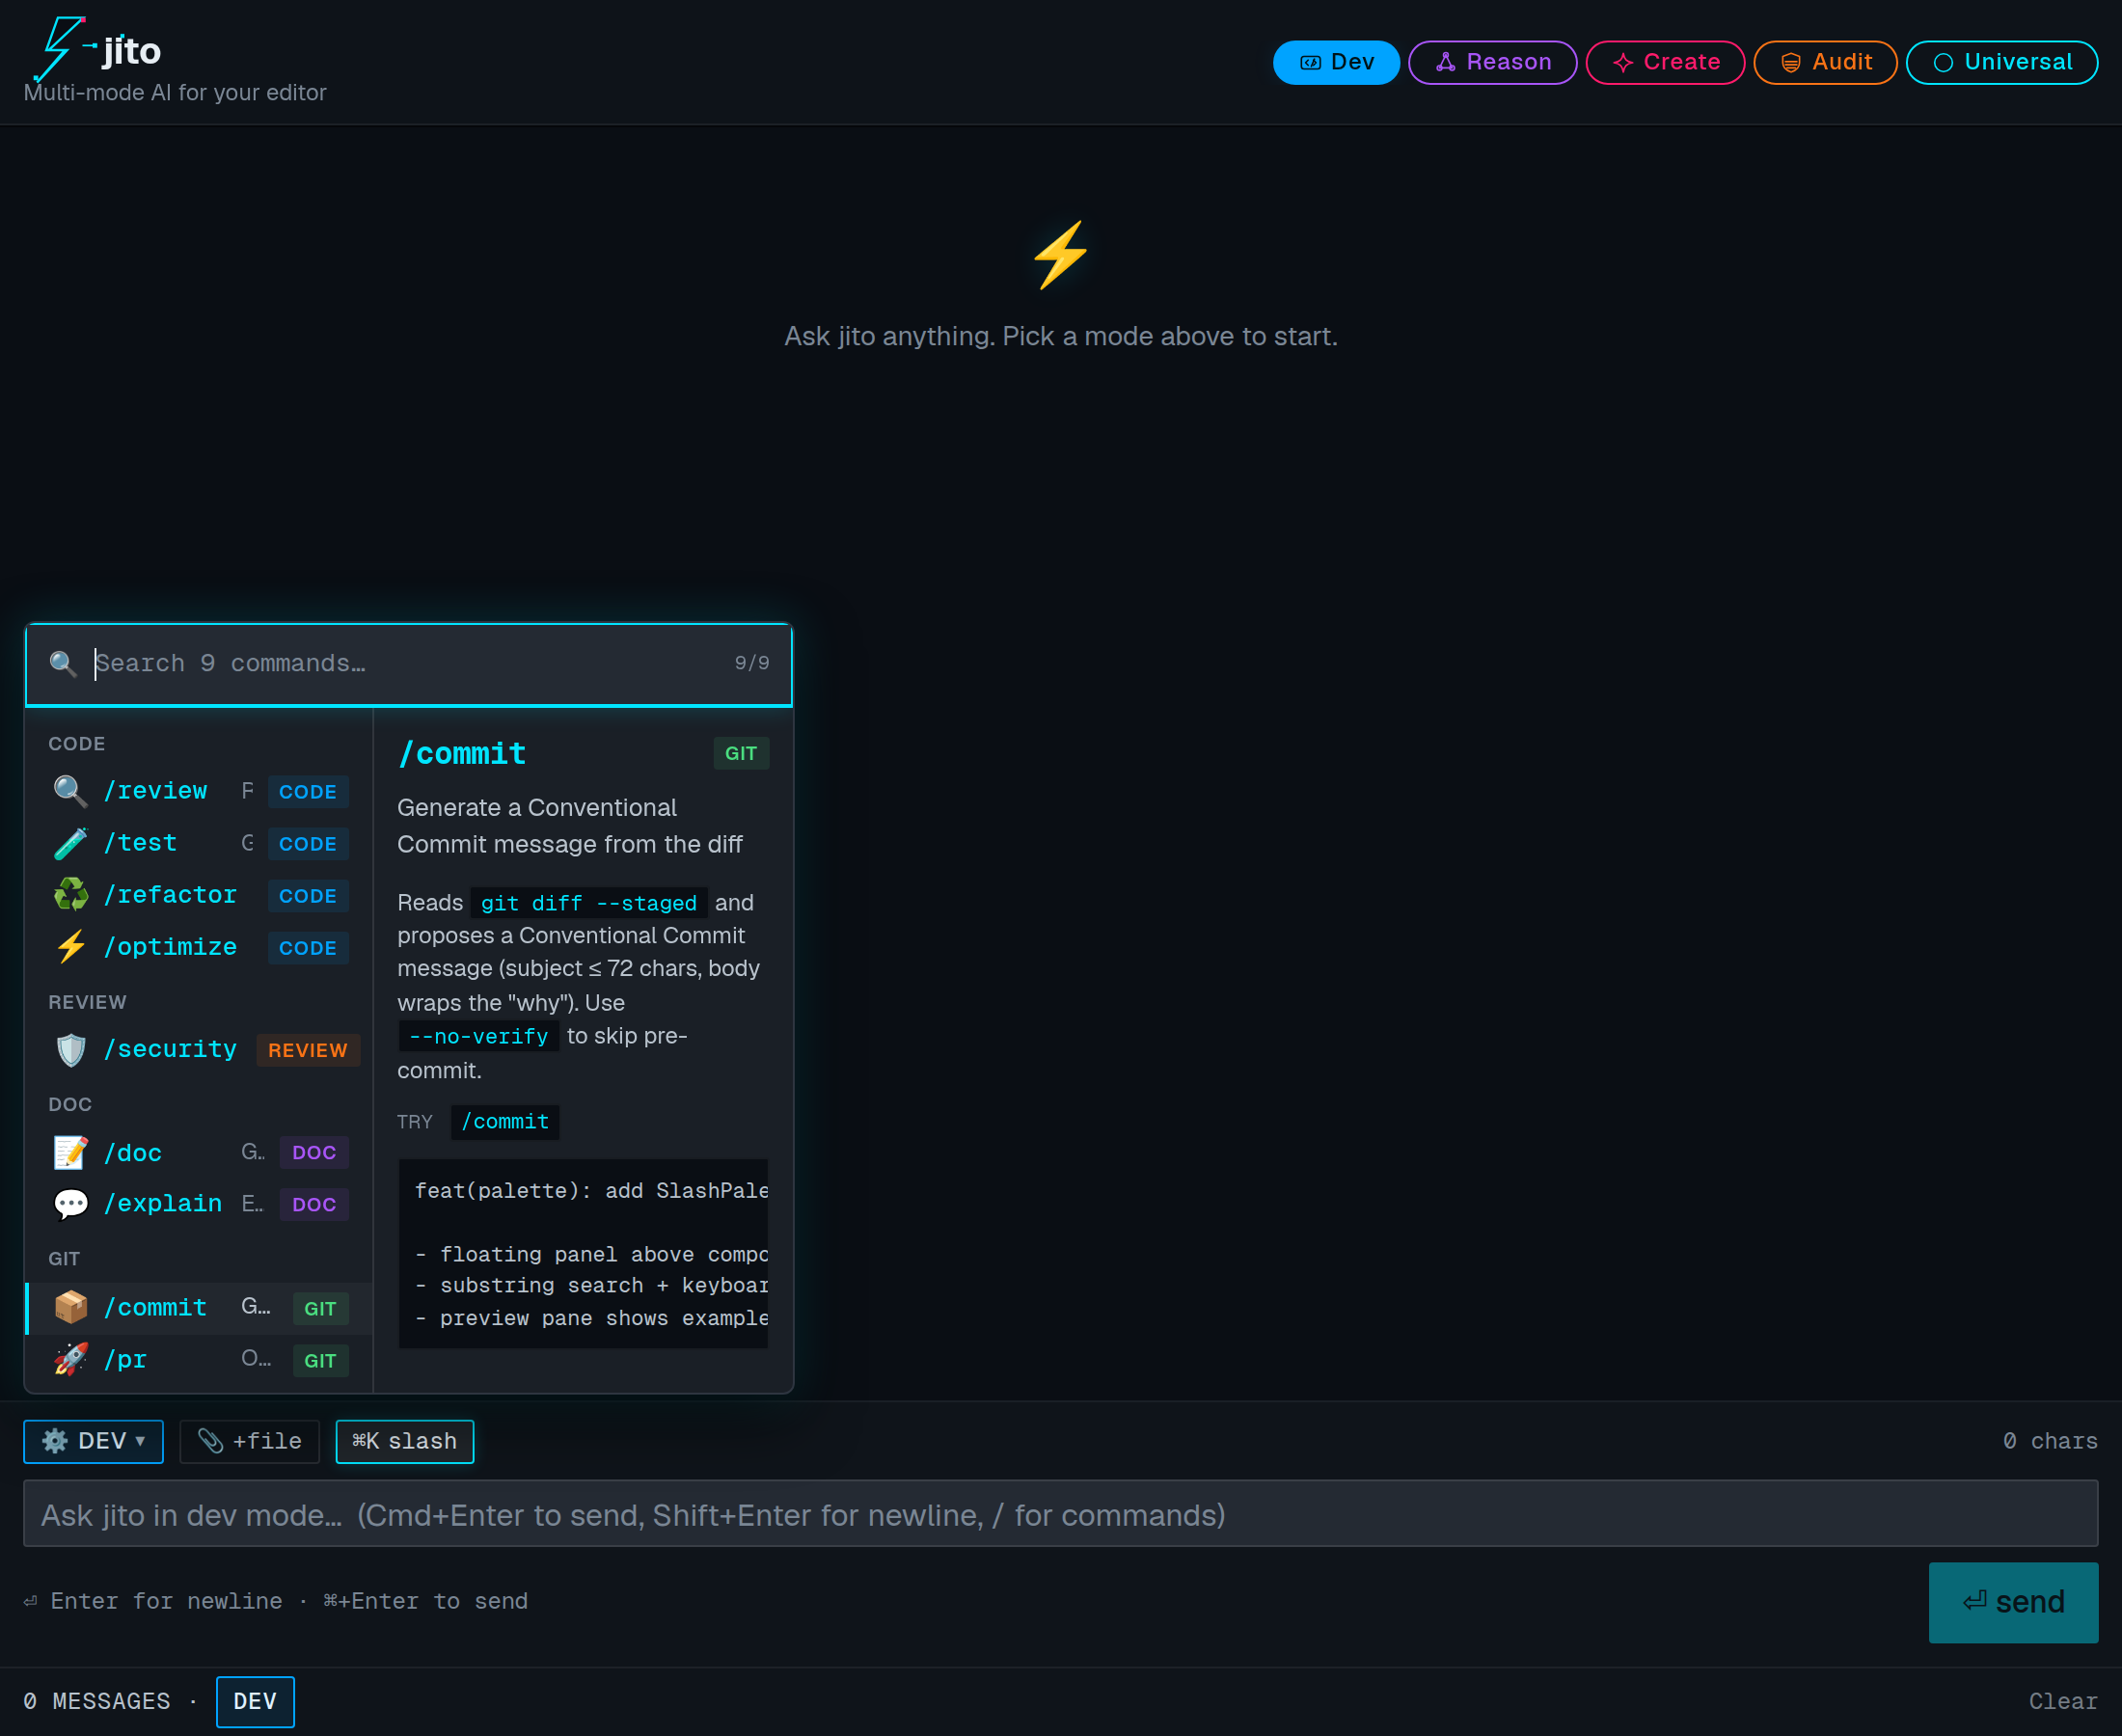
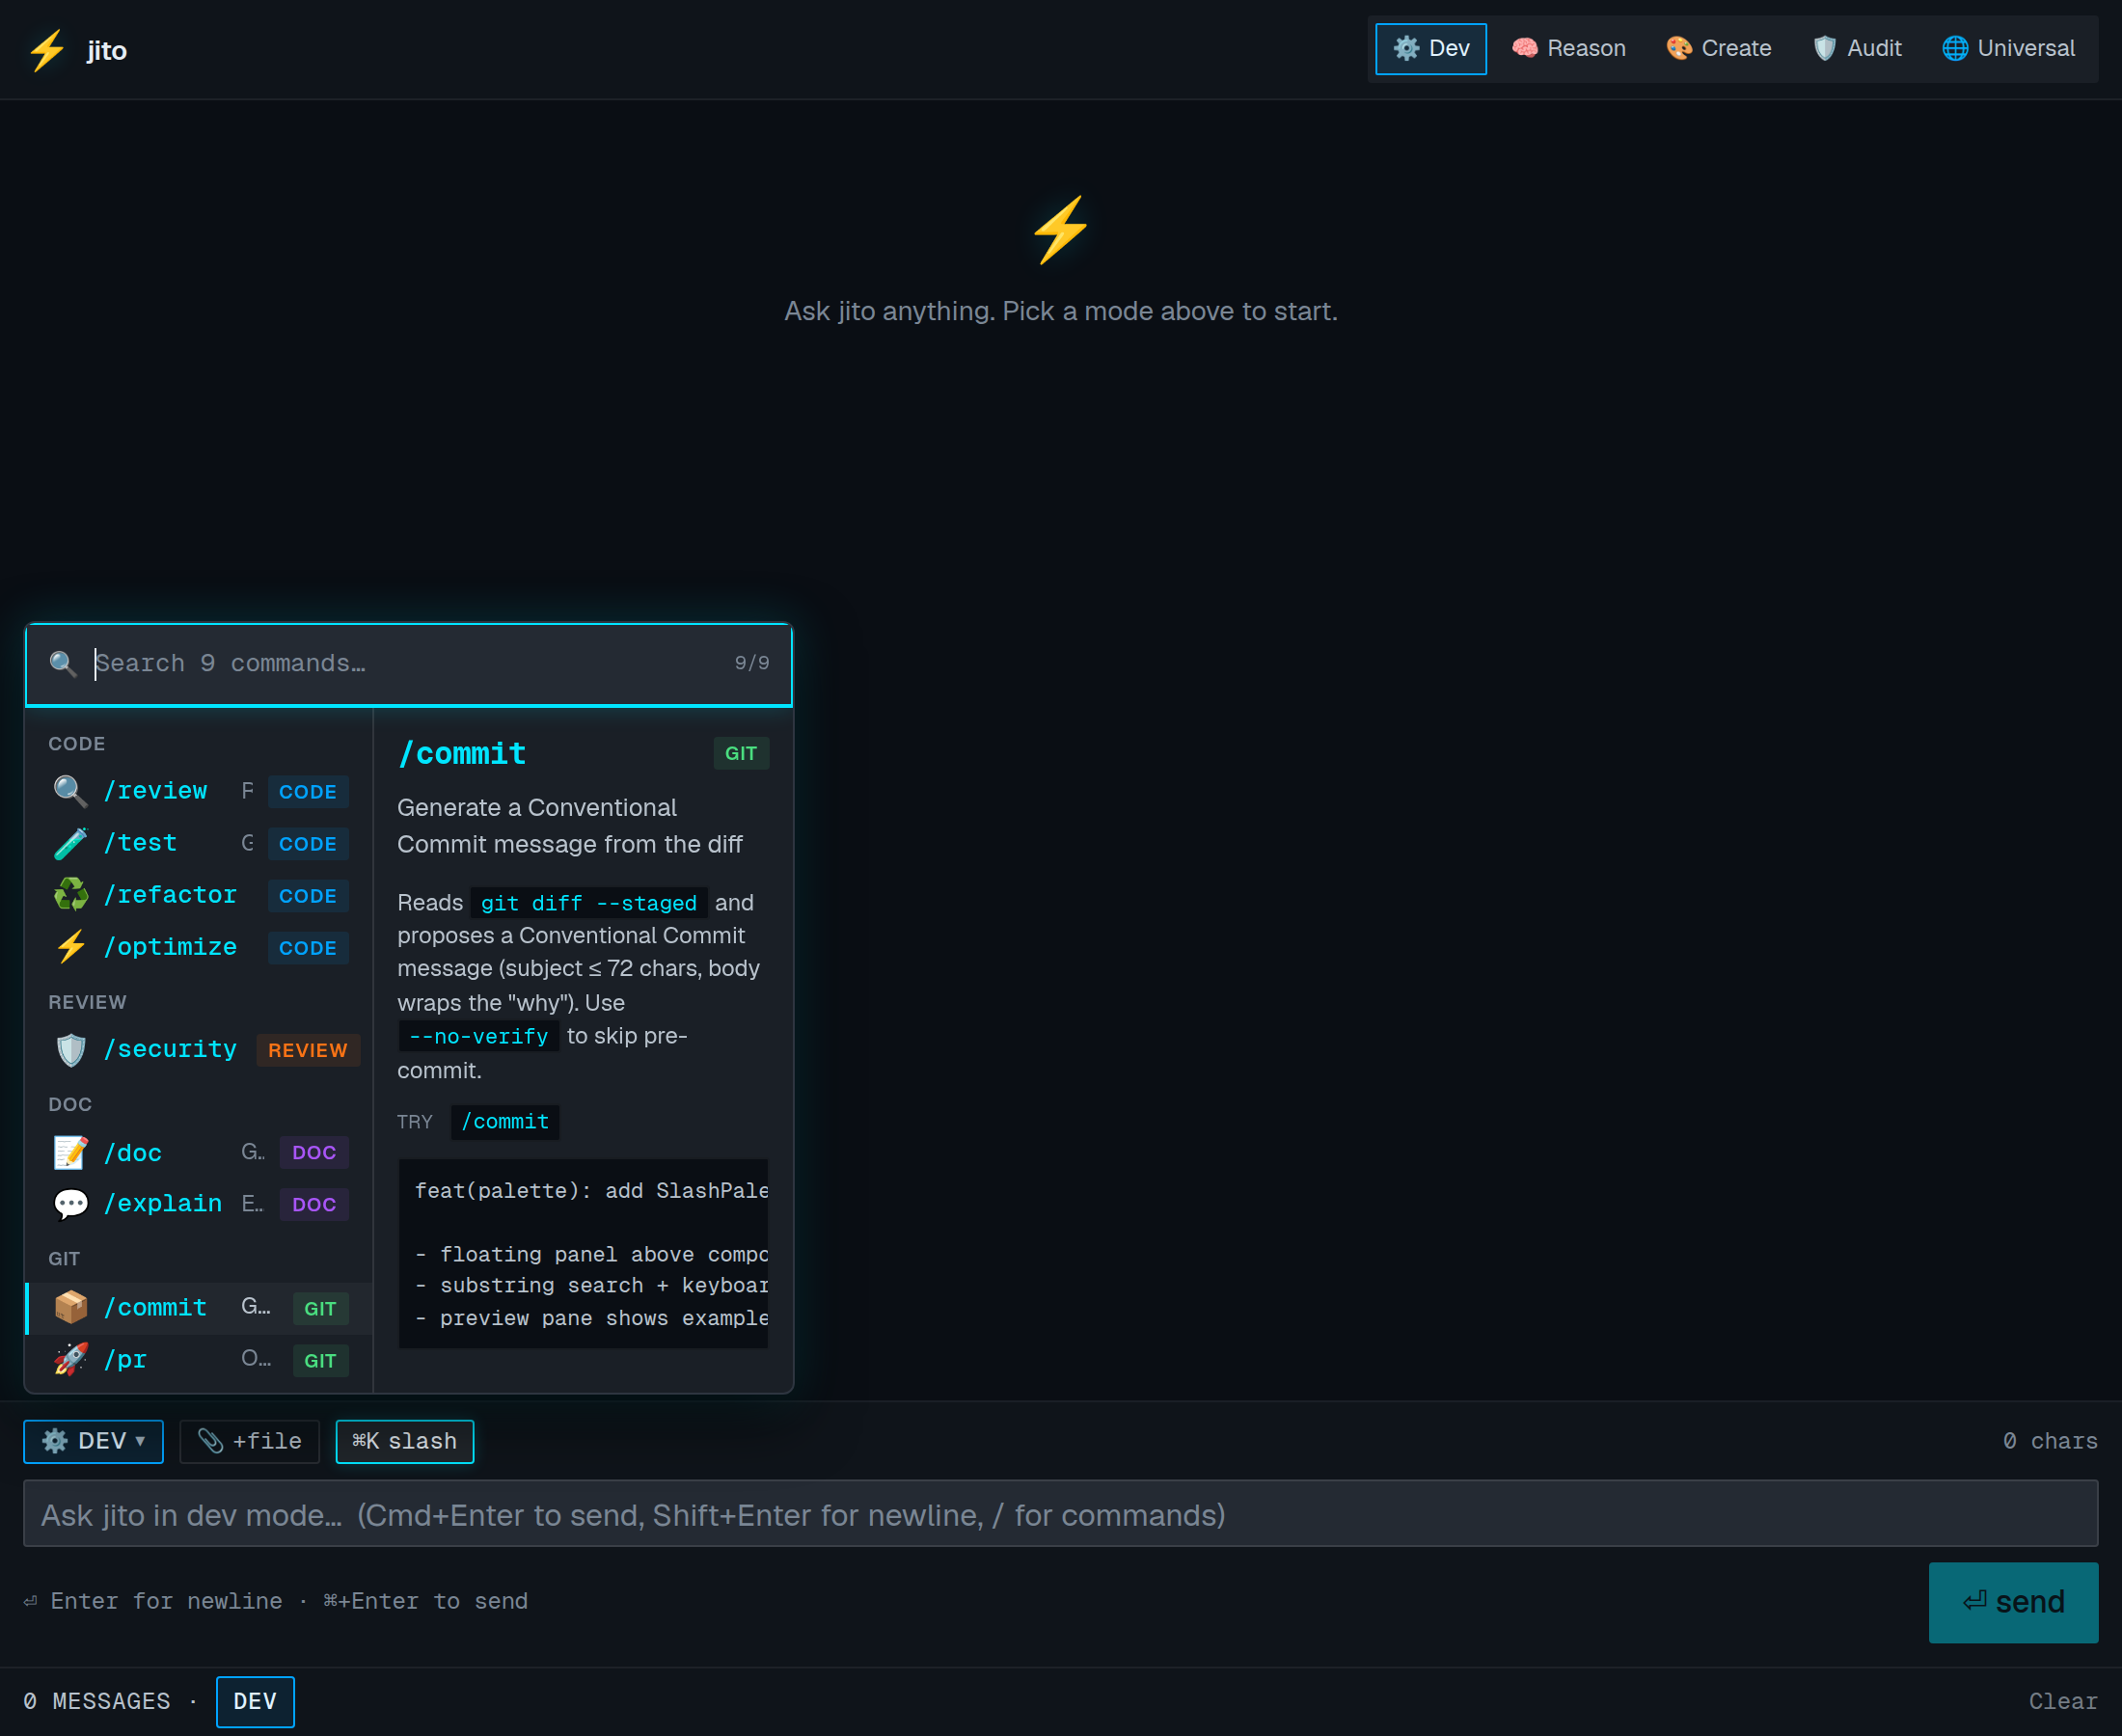
test(4.2): fix test selectors + smoke harness post-merge
After cherry-picking Phase 4.2 onto main (with Phase 5.1 Onboarding already
present), three latent bugs surfaced:

1. Composer.test.tsx used old inline-palette descriptions ('Review code for
   issues', 'Generate tests'). Phase 4.2 rewrote them ('Review code for
   bugs, quality, and security smells', 'Generate unit tests'). Update
   regexes to match the new descriptions.

2. smoke-phase-4.2.mjs queried .palette__preview-block in section ② (which
   works because /review's preview contains a <pre class='palette__preview-block'>),
   but queried .palette__preview-body in section ④. /commit's preview body
   leads with prose so /feat\(/ wasn't matching. Switch to .palette__preview-block
   for /commit specifically.

3. The preview HTML mounts the full app, including <Onboarding />. On first
   load its modal+backdrop covers the SlashPalette and intercepts hover
   events. Add a localStorage.setItem('jito-onboarding-seen','v0.2.0') step
   before page.goto so Onboarding thinks the user has already seen the tour.

Result:
  - vitest: 58/58 (was 56/58)
  - smoke-phase-4.2: 23/23 (was 21/23)

Also adjust section ④ hover technique: scrollIntoView({block:'center'}) +
row.hover() instead of raw mouse.move, which sometimes missed when /commit
was scrolled below the 480px palette max-height.

diff --git a/webview/src/components/Composer.test.tsx b/webview/src/components/Composer.test.tsx
@@ -132,7 +132,7 @@ describe('Composer', () => {
 
     renderComposer();
     await user.click(screen.getByRole('button', { name: 'Open slash commands' }));
-    await user.click(screen.getByRole('option', { name: /\/review Review code for issues/ }));
+    await user.click(screen.getByRole('option', { name: /\/review Review code for bugs/ }));
 
     expect(screen.getByRole('textbox', { name: 'Message composer' })).toHaveValue('/review ');
     expect(screen.queryByRole('listbox', { name: 'Slash commands' })).not.toBeInTheDocument();
@@ -145,7 +145,7 @@ describe('Composer', () => {
     const textbox = screen.getByRole('textbox', { name: 'Message composer' });
     await user.type(textbox, 'existing text');
     await user.click(screen.getByRole('button', { name: 'Open slash commands' }));
-    await user.click(screen.getByRole('option', { name: /\/test Generate tests/ }));
+    await user.click(screen.getByRole('option', { name: /\/test Generate unit tests/ }));
 
     expect(textbox).toHaveValue('existing text');
     expect(screen.queryByRole('listbox', { name: 'Slash commands' })).not.toBeInTheDocument();